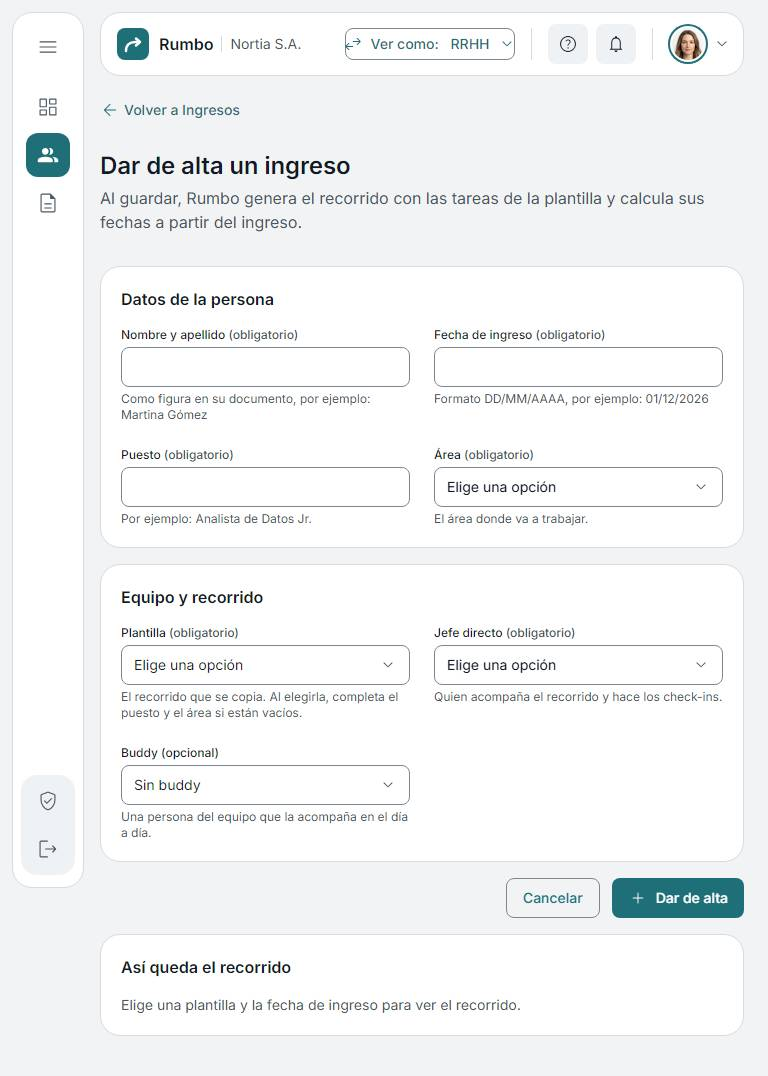
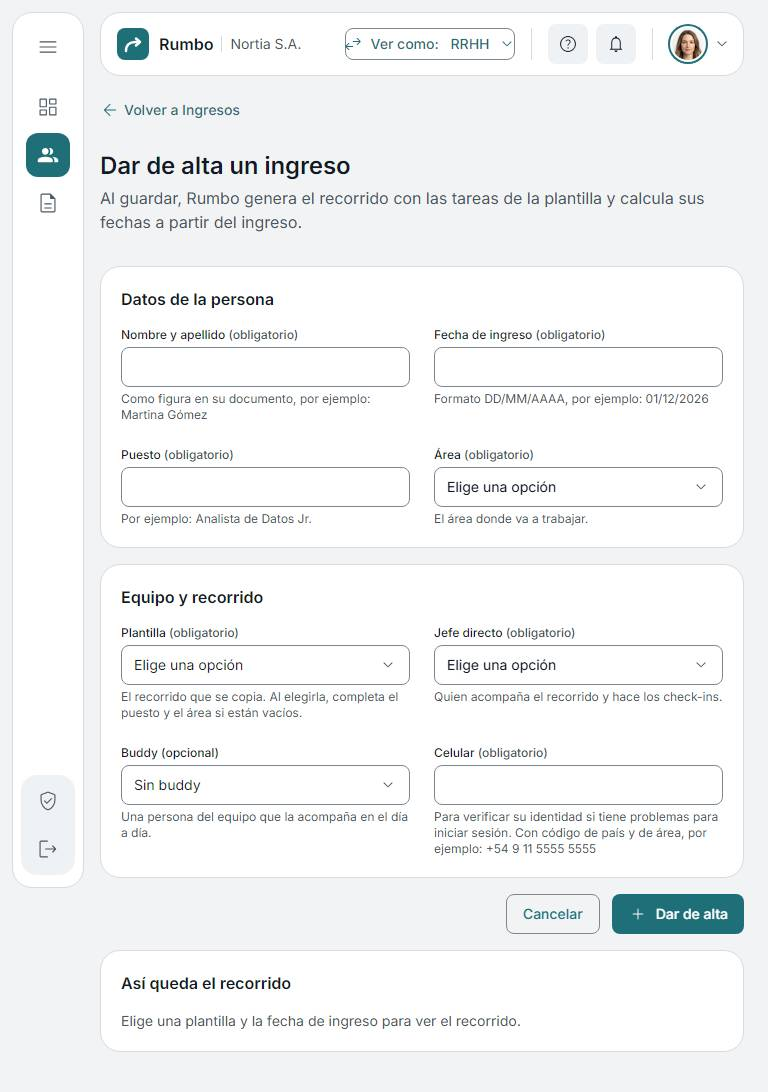
New hire: company employee number and mobile for identity verification, masked in the record (D-78)

diff --git a/src/features/hires/NewHirePage.tsx b/src/features/hires/NewHirePage.tsx
@@ -12,11 +12,11 @@ import { TextField } from '@/components/ui/TextField';
 import { toast } from '@/components/ui/toast-store';
 import milestones from '@/data/checkin-milestones.json';
 import { addDays, formatDate } from '@/lib/dates';
-import { createHire, workEmailFor } from '@/lib/hires';
-import { dateMask } from '@/lib/input-masks';
+import { createHire, nextEmployeeId, workEmailFor } from '@/lib/hires';
+import { dateMask, phoneMask } from '@/lib/input-masks';
 import { CHECKIN_OFFSETS, hireStatus } from '@/lib/journey';
 import { useFieldError } from '@/lib/use-field-error';
-import { dateField, parseDisplayDate, requiredText } from '@/lib/validation';
+import { dateField, parseDisplayDate, phoneField, requiredText } from '@/lib/validation';
 import { useDataStore } from '@/store/data-store';
 import { useCurrentUser } from '@/store/session-store';
 import { HireStatusPill } from './HireStatusPill';
@@ -29,6 +29,7 @@ const schema = z.object({
   managerId: requiredText,
   buddyId: z.string(),
   templateId: requiredText,
+  mobile: phoneField,
 });
 type Values = z.infer<typeof schema>;
 
@@ -56,7 +57,16 @@ export function NewHirePage() {
   } = useForm<Values>({
     resolver: zodResolver(schema),
     mode: 'onTouched',
-    defaultValues: { name: '', jobTitle: '', area: '', startDate: '', managerId: '', buddyId: '', templateId: '' },
+    defaultValues: {
+      name: '',
+      jobTitle: '',
+      area: '',
+      startDate: '',
+      managerId: '',
+      buddyId: '',
+      templateId: '',
+      mobile: '',
+    },
   });
   const [name, startDate, templateId] = useWatch({ control, name: ['name', 'startDate', 'templateId'] });
 
@@ -199,6 +209,17 @@ export function NewHirePage() {
                 ]}
                 {...register('buddyId')}
               />
+              <TextField
+                label={t('hires.form.mobile')}
+                helperText={t('hires.form.mobileHelp')}
+                type="tel"
+                inputMode="tel"
+                autoComplete="off"
+                mask={phoneMask}
+                required
+                error={fieldError(errors.mobile)}
+                {...register('mobile')}
+              />
             </div>
           </Card>
 
@@ -218,13 +239,22 @@ export function NewHirePage() {
           <Card title={t('hires.form.summary.title')} className="lg:sticky lg:top-24">
             {summary ? (
               <ul className="flex flex-col gap-4 text-body-medium text-on-surface" aria-live="polite">
-                <li className="flex flex-col gap-0.5">
-                  <span className="text-label-medium text-on-surface-variant">{t('hires.form.summary.email')}</span>
-                  <span className="break-all">
-                    {workEmailFor(
-                      name || '',
-                      people.map((p) => p.email),
-                    )}
+                <li className="flex flex-col gap-2 rounded-md bg-surface-container p-3">
+                  <span className="text-body-small text-on-surface-variant">{t('hires.form.summary.generated')}</span>
+                  <span className="flex flex-col gap-0.5">
+                    <span className="text-label-medium text-on-surface-variant">{t('hires.form.summary.email')}</span>
+                    <span className="break-all">
+                      {workEmailFor(
+                        name || '',
+                        people.map((p) => p.email),
+                      )}
+                    </span>
+                  </span>
+                  <span className="flex flex-col gap-0.5">
+                    <span className="text-label-medium text-on-surface-variant">
+                      {t('hires.form.summary.employeeId')}
+                    </span>
+                    <span className="tabular-nums">{nextEmployeeId(people)}</span>
                   </span>
                 </li>
                 <li className="flex items-start gap-2">

diff --git a/src/features/hires/HireDetailPage.tsx b/src/features/hires/HireDetailPage.tsx
@@ -11,6 +11,7 @@ import { TaskRow } from '@/features/journey/TaskRow';
 import { useCompleteTask } from '@/features/journey/use-complete-task';
 import { DEMO_TODAY, daysBetween, formatDate, formatPercent, STAGES } from '@/lib/dates';
 import { summarizeHire } from '@/lib/hires';
+import { maskPhone } from '@/lib/validation';
 import { CHECKIN_OFFSETS, checkinDueDate, progressByStage } from '@/lib/journey';
 import { can, canCompleteTask, canViewHire } from '@/lib/permissions';
 import { useDataStore } from '@/store/data-store';
@@ -196,6 +197,9 @@ export function HireDetailPage() {
                 <DetailRow label={t('hires.detail.hr')} value={nameOf(hire.hrId)} />
                 <DetailRow label={t('hires.detail.template')} value={s.template?.name ?? t('hires.detail.none')} />
                 <DetailRow label={t('hires.detail.email')} value={s.person?.email ?? ''} />
+                {s.person?.employeeId && <DetailRow label={t('hires.detail.employeeId')} value={s.person.employeeId} />}
+                {/* Only the last digits: personal data shown masked (F10) */}
+                {s.person?.mobile && <DetailRow label={t('hires.detail.mobile')} value={maskPhone(s.person.mobile)} />}
               </dl>
             </Card>
 

diff --git a/src/lib/hires.ts b/src/lib/hires.ts
@@ -99,6 +99,13 @@ function uniqueId(prefix: string, name: string, takenIds: string[]): string {
   return id;
 }
 
+/** Next employee number of the company: NOR-1001, NOR-1002… (D-78). */
+export function nextEmployeeId(people: Person[]): string {
+  const numbers = people.map((p) => Number(p.employeeId?.replace(/\D/g, '') ?? 0));
+  const next = Math.max(1000 + people.length, ...numbers) + 1;
+  return `NOR-${next}`;
+}
+
 export interface NewHireInput {
   name: string;
   jobTitle: string;
@@ -108,6 +115,8 @@ export interface NewHireInput {
   managerId: string;
   buddyId?: string;
   templateId: string;
+  /** Mobile for identity verification. */
+  mobile: string;
 }
 
 /**
@@ -146,6 +155,8 @@ export function createHire(
       context.people.map((p) => p.email),
     ),
     managerId: input.managerId,
+    employeeId: nextEmployeeId(context.people),
+    mobile: input.mobile.trim(),
   };
   const checkins = generateCheckins(input.startDate, hireId, context.milestones);
   const hire: Hire = {

diff --git a/src/lib/input-masks.ts b/src/lib/input-masks.ts
@@ -48,6 +48,20 @@ export function digitsMask(maxLength: number): InputMask {
   return createMask((raw) => raw.replace(/\D/g, '').slice(0, maxLength), /[\d ]/);
 }
 
+/** Mobile numbers: a leading + and digits; spaces are kept for readability. 15 digits max (E.164). */
+export const phoneMask = createMask((raw) => {
+  const plus = raw.trimStart().startsWith('+') ? '+' : '';
+  let digits = 0;
+  const body = raw
+    .replace(/[^\d ]/g, '')
+    .replace(/\s+/g, ' ')
+    .split('')
+    .filter((char) => (char === ' ' ? true : ++digits <= 15))
+    .join('')
+    .trimStart();
+  return plus + body;
+}, /[\d+ ()-]/);
+
 /** Emails and user names cannot contain spaces. */
 export const noSpacesMask = createMask((raw) => raw.replace(/\s/g, ''), /\S/);
 

diff --git a/src/features/hires/Hires.test.tsx b/src/features/hires/Hires.test.tsx
@@ -51,6 +51,7 @@ describe('A3 · New hire', () => {
     fireEvent.change(screen.getByRole('textbox', { name: /Fecha de ingreso/ }), { target: { value: '01/12/2026' } });
     fireEvent.change(screen.getByRole('combobox', { name: /Plantilla/ }), { target: { value: 'tpl-data' } });
     fireEvent.change(screen.getByRole('combobox', { name: /Jefe directo/ }), { target: { value: 'p-martin' } });
+    fireEvent.change(screen.getByRole('textbox', { name: /Celular/ }), { target: { value: '+54 9 11 5555 5555' } });
     // The template fills in the job title and the area
     expect(screen.getByRole('textbox', { name: /Puesto/ })).not.toHaveValue('');
     fireEvent.click(screen.getByRole('button', { name: es.hires.form.submit }));

diff --git a/src/lib/validation.ts b/src/lib/validation.ts
@@ -42,3 +42,15 @@ export const taskOffsetField = required(z.string())
 export const otpField = required(z.string()).regex(/^\d{6}$/, 'validation.otp');
 
 export const requiredText = required(z.string());
+
+/** Mobile with country and area code: 10 to 15 digits (D-78). */
+export const phoneField = required(z.string()).refine((value) => {
+  const digits = value.replace(/\D/g, '').length;
+  return digits >= 10 && digits <= 15;
+}, 'validation.phone');
+
+/** Shows only the last 4 digits of a phone number, for example "*** 5555". */
+export function maskPhone(value: string): string {
+  const digits = value.replace(/\D/g, '');
+  return digits.length > 4 ? `*** ${digits.slice(-4)}` : value;
+}

diff --git a/src/lib/hires.test.ts b/src/lib/hires.test.ts
@@ -49,10 +49,13 @@ describe('creating a hire (A3, F3)', () => {
         startDate: start,
         managerId: 'p-martin',
         templateId: template.id,
+        mobile: '+54 9 11 5555 5555',
       },
       { template, hrId: 'p-carla', people: seed.people, hires: seed.hires, milestones },
     );
     expect(person.role).toBe('hire');
+    expect(person.employeeId).toMatch(/^NOR-\d{4}$/);
+    expect(person.mobile).toBe('+54 9 11 5555 5555');
     expect(hire.personId).toBe(person.id);
     expect(hire.status).toBe('upcoming');
     expect(hire.tasks).toHaveLength(template.tasks.length);

diff --git a/src/lib/input-masks.test.ts b/src/lib/input-masks.test.ts
@@ -81,3 +81,12 @@ describe('hasRejectedCharacters', () => {
     expect(hasRejectedCharacters(noSpacesMask, 'sofia @nortia.demo')).toBe(true);
   });
 });
+
+describe('phoneMask (D-78)', () => {
+  it('keeps a leading plus, digits and spaces, up to 15 digits', async () => {
+    const { phoneMask } = await import('./input-masks');
+    expect(phoneMask('+54 9 11 5555-5555')).toBe('+54 9 11 55555555');
+    expect(phoneMask('abc 11 2222')).toBe('11 2222');
+    expect(phoneMask('1234567890123456789').replace(/\D/g, '')).toHaveLength(15);
+  });
+});

diff --git a/src/types/domain.ts b/src/types/domain.ts
@@ -22,6 +22,10 @@ export interface Person {
   email: string;
   managerId?: string;
   avatarUrl?: string;
+  /** Employee number given by the company when the hire is created (D-78), for example NOR-1013. */
+  employeeId?: string;
+  /** Mobile used by IT to verify identity before restoring access (D-78). Fictitious in the demo. */
+  mobile?: string;
 }
 
 export interface Session {

diff --git a/docs/decisions.md b/docs/decisions.md
@@ -81,6 +81,6 @@ Dudas encontradas en la especificación (`CLAUDE.md`) y cómo se resolvieron. La
 | D-75 | 11/11/2026 | Lourdes ajustó textos de G0. | Etiqueta del hero "Plataforma de onboarding para empresas · Caso de diseño UX/UI B2B"; Martín "Acompaña a su equipo con check-ins a tiempo" y "Las personas nuevas de su equipo"; Sofía "Sigue su recorrido paso a paso"; "La persona nueva no sabe qué toca hoy"; "Sin datos del avance, los atrasos no aparecen hasta la reunión de los 90 días."; "Pantallas en esta versión"; "Sin crear cuentas ni ingresar datos reales"; autoría "Diseño: Lourdes Pedaci, Experience Designer (Learning y UX/UI)" en el pie, CLAUDE.md y docs. Inglés equivalente. La etiqueta del hero pasa a dos líneas centradas en 320 y 375 px sin desbordar. | Textos de Lourdes. | Tomada |
 | D-76 | 11/11/2026 | Lourdes pidió que las pantallas de acceso usen más ancho y no obliguen a hacer scroll, y crear las tarjetas OG y lo necesario para indexación en Google y difusión. `index.html` tenía `robots: noindex`. | **Acceso (G2 a G4):** columna de 36 rem cuando no hay panel lateral (28 rem con panel), centrada en vertical y con 24 px entre secciones en pantallas de menos de 800 px de alto; en G2 el ícono de la simulación va al lado del texto. G2 y G3 entran sin scroll en 1306 × 670. **Indexación y difusión:** `robots: index, follow`; título y descripción orientados a búsqueda; `canonical`; Open Graph y Twitter con imagen 1200 × 630; datos estructurados `WebApplication` con la autora; `robots.txt`, `sitemap.xml` (solo la portada: el resto vive después del `#`); `site.webmanifest`, `apple-touch-icon` y un ícono de 512 px; `<noscript>` con un resumen. **Tarjeta OG:** componente `OgCard` (y `AppIconCard`) con piezas reales de Rumbo, en `/og-card` solo en desarrollo; `npm run og` captura `public/og-image.png`, `icon-512.png` y `apple-touch-icon.png`. El favicon pasa a la flecha del logo actual. | Pedido de Lourdes; el portfolio necesita que la demo se encuentre y se comparta con buena vista previa. | Tomada |
 | D-77 | 11/11/2026 | Lourdes ajustó dos subtítulos de G0. | "Un recorrido para cada rol": cada oración en su línea (el encabezado respeta saltos de línea). "Cómo empezar": "Todo está precargado para facilitar la navegación por el sistema." Inglés equivalente. | Textos de Lourdes. | Tomada |
-| D-78 | 11/11/2026 | Paso 7 (A2, A3, A4). F3 pide nombre, puesto, área, fecha de ingreso, jefe directo, buddy y plantilla, pero la persona también necesita un correo, y no dice quién puede ser jefe o buddy. Lourdes pidió además que las descripciones de página usen el ancho del contenedor y que el próximo check-in muestre los días que faltan. | **Correo:** se genera a partir del nombre (`nombre.apellido@nortia.demo`, con un número si ya existe) y se muestra en el resumen antes de guardar; no se pide (no pedir datos de más). **Jefe directo:** personas con rol de jefe. **Buddy (opcional):** personas de la empresa sin rol de gestión. **Plantilla:** al elegirla completa el puesto y el área si están vacíos. **Estado del recorrido** (próximo, en curso, finalizado) calculado por fechas y check-ins. **A4:** RRHH puede marcar como hechas tareas de cualquier responsable (sección 4); ve la autoevaluación (permiso `checkin:view_self_review`). **KPIs de A4:** etiqueta, número y una sola píldora en las cuatro tarjetas; en el check-in, la etiqueta dice cuál es ("Check-in de 30 días"), el número es la cuenta regresiva ("2 días", "Hoy" o "Vencido") y la fecha va en la píldora. **Encabezados de página:** la descripción usa todo el ancho del contenedor y la acción se alinea al centro del bloque. **A2:** los filtros son una barra de herramientas dentro de la misma tarjeta que la tabla (estado a la izquierda; área y cantidad de resultados a la derecha); el filtro de área lleva la etiqueta al lado y sin texto de ayuda, porque filtra y no carga datos. Por debajo de 1024 px: filas compactas en lugar de la tabla; por debajo de 640 px el estado se elige en un menú junto al de área (dos menús lado a lado, 48 px de alto), sin barras de desplazamiento visibles (utilidad `scrollbar-none`, también en tablas por debajo de 1024 px). | Alta en un solo paso, sin datos repetidos, y lectura rápida de lo urgente. | Conviene confirmar la regla del correo |
+| D-78 | 11/11/2026 | Paso 7 (A2, A3, A4). F3 pide nombre, puesto, área, fecha de ingreso, jefe directo, buddy y plantilla, pero la persona también necesita un correo, y no dice quién puede ser jefe o buddy. Lourdes pidió además que las descripciones de página usen el ancho del contenedor y que el próximo check-in muestre los días que faltan. | **Correo:** se genera a partir del nombre (`nombre.apellido@nortia.demo`, con un número si ya existe) y se muestra en el resumen antes de guardar; no se pide (no pedir datos de más). **Jefe directo:** personas con rol de jefe. **Buddy (opcional):** personas de la empresa sin rol de gestión. **Plantilla:** al elegirla completa el puesto y el área si están vacíos. **Estado del recorrido** (próximo, en curso, finalizado) calculado por fechas y check-ins. **A4:** RRHH puede marcar como hechas tareas de cualquier responsable (sección 4); ve la autoevaluación (permiso `checkin:view_self_review`). **KPIs de A4:** etiqueta, número y una sola píldora en las cuatro tarjetas; en el check-in, la etiqueta dice cuál es ("Check-in de 30 días"), el número es la cuenta regresiva ("2 días", "Hoy" o "Vencido") y la fecha va en la píldora. **Encabezados de página:** la descripción usa todo el ancho del contenedor y la acción se alinea al centro del bloque. **A2:** los filtros son una barra de herramientas dentro de la misma tarjeta que la tabla (estado a la izquierda; área y cantidad de resultados a la derecha); el filtro de área lleva la etiqueta al lado y sin texto de ayuda, porque filtra y no carga datos. Por debajo de 1024 px: filas compactas en lugar de la tabla; por debajo de 640 px el estado se elige en un menú junto al de área (dos menús lado a lado, 48 px de alto), sin barras de desplazamiento visibles (utilidad `scrollbar-none`, también en tablas por debajo de 1024 px). | Alta en un solo paso, sin datos repetidos, y lectura rápida de lo urgente. | Confirmada por Lourdes el 11/11/2026: la empresa genera el correo y el legajo (NOR-1001, NOR-1002…), y el celular se pide como último campo, para verificar la identidad; en la ficha se muestra enmascarado (*** 5555) |
 | D-79 | 11/11/2026 | Lourdes señaló que la barra superior en mobile se veía pesada. | Por debajo de 768 px la barra superior no muestra el logo: queda el botón de menú, "Ver como", Ayuda y la persona. El logo aparece al abrir el menú lateral. | Barra más liviana sin perder la marca, que está a un toque. | Tomada |
 | D-80 | 11/11/2026 | Lourdes señaló que necesitaban diseño: la lista del filtro de estado (la lista nativa del sistema operativo no sigue el estilo), las tarjetas de plantillas en mobile y la pantalla provisoria del panel de RRHH. | **FilterMenu:** los filtros de listados usan un menú propio (Radix, con teclado y la opción marcada anunciada) con la cantidad de cada opción; reemplaza al select nativo en A2. **A5:** catálogo de tarjetas por defecto (patrón 11 de 2.2.1): ícono, nombre, puesto (si difiere del nombre) y área en chips, tareas e ingresos con ícono y la fecha de edición; la primera tarjeta, punteada, es "Crear plantilla" (desde 640 px; en mobile ya está el botón del encabezado); desde 768 px se puede cambiar a tabla. **Pantallas en construcción:** tarjeta con "En construcción", qué va a mostrar la pantalla, un esbozo plano de su contenido y accesos a las secciones del rol que ya funcionan. | Listados coherentes con el sistema y ninguna pantalla sin salida para quien recorre el portfolio. | Tomada |
